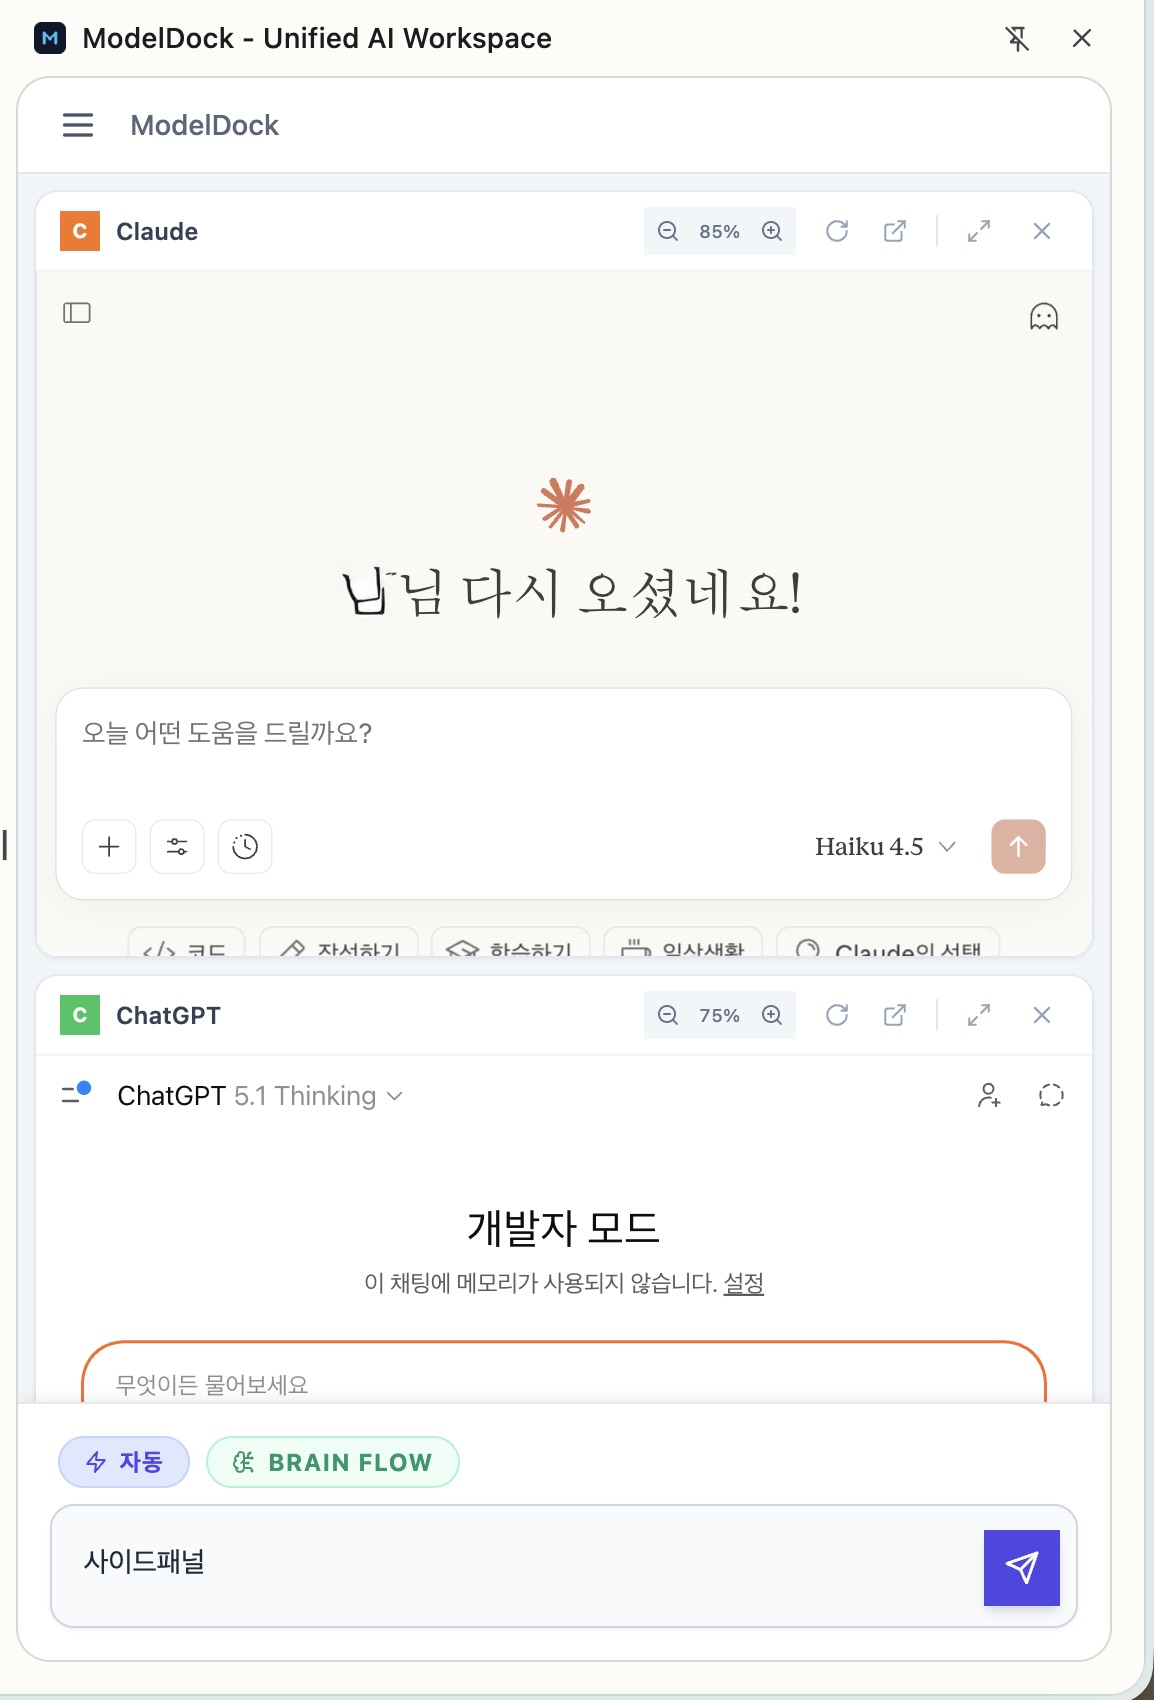
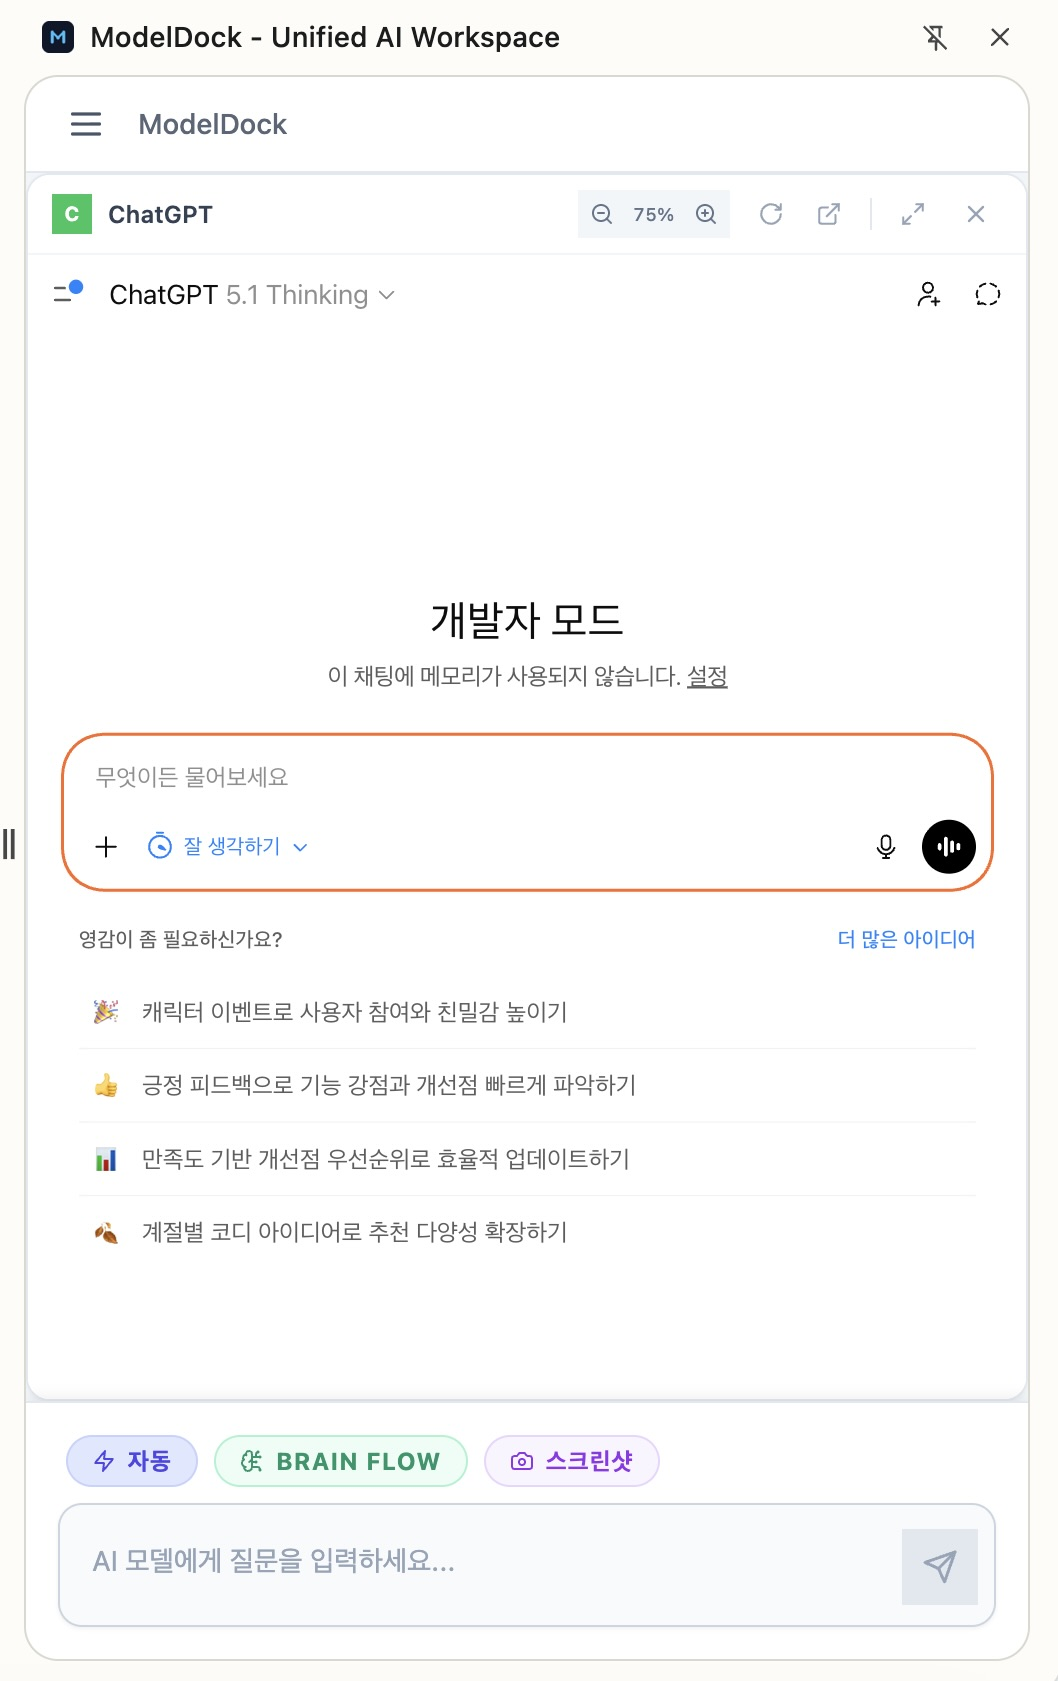
스크린샷 완성

diff --git a/public/content.js b/public/content.js
@@ -648,40 +648,88 @@ function resolveManifestFromCache(hostname) {
 
     console.log('[ModelDock] ✅ Found input for image:', foundInput);
 
-    // 3. Simulate Paste / Drop
+    // 3. Simulate Paste / Drop - 🔧 모델별 최적화 (중복 방지)
     try {
       foundInput.focus();
 
-      // Method A: ClipboardEvent with DataTransfer (Modern)
       const dataTransfer = new DataTransfer();
       dataTransfer.items.add(file);
 
+      // 호스트명 기반 모델 감지
+      const hostname = window.location.hostname;
+
+      // === GPT (ChatGPT): Paste만 사용 ===
+      if (hostname.includes('openai.com') || hostname.includes('chatgpt.com')) {
+        const pasteEvent = new ClipboardEvent('paste', {
+          bubbles: true,
+          cancelable: true,
+          clipboardData: dataTransfer
+        });
+        foundInput.dispatchEvent(pasteEvent);
+        console.log('[ModelDock] 📸 ChatGPT: Paste-only method used');
+        return { status: 'success', method: 'paste' };
+      }
+
+      // === Kimi: Paste만 사용 ===
+      if (hostname.includes('kimi') || hostname.includes('moonshot')) {
+        const pasteEvent = new ClipboardEvent('paste', {
+          bubbles: true,
+          cancelable: true,
+          clipboardData: dataTransfer
+        });
+        foundInput.dispatchEvent(pasteEvent);
+        console.log('[ModelDock] 📸 Kimi: Paste-only method used');
+        return { status: 'success', method: 'paste' };
+      }
+
+      // === LMArena: Paste 우선, File Input 폴백 ===
+      if (hostname.includes('lmarena.ai')) {
+        // 1. Paste 시도
+        const pasteEvent = new ClipboardEvent('paste', {
+          bubbles: true,
+          cancelable: true,
+          clipboardData: dataTransfer
+        });
+        foundInput.dispatchEvent(pasteEvent);
+        console.log('[ModelDock] 📸 LMArena: Paste method attempted');
+
+        // 2. File Input도 시도 (보험용)
+        const fileInput = document.querySelector('input[type="file"]');
+        if (fileInput) {
+          try {
+            const dt = new DataTransfer();
+            dt.items.add(file);
+            fileInput.files = dt.files;
+            fileInput.dispatchEvent(new Event('change', { bubbles: true }));
+            console.log('[ModelDock] 📸 LMArena: File input also triggered');
+          } catch (e) {
+            console.warn('[ModelDock] LMArena file input failed:', e);
+          }
+        }
+        return { status: 'success', method: 'paste+file' };
+      }
+
+      // === DeepSeek / Qwen: Paste만 사용 ===
+      if (hostname.includes('deepseek') || hostname.includes('qwen')) {
+        const pasteEvent = new ClipboardEvent('paste', {
+          bubbles: true,
+          cancelable: true,
+          clipboardData: dataTransfer
+        });
+        foundInput.dispatchEvent(pasteEvent);
+        console.log('[ModelDock] 📸 DeepSeek/Qwen: Paste-only method used');
+        return { status: 'success', method: 'paste' };
+      }
+
+      // === 기타 모델: Paste만 사용 ===
       const pasteEvent = new ClipboardEvent('paste', {
         bubbles: true,
         cancelable: true,
         clipboardData: dataTransfer
       });
       foundInput.dispatchEvent(pasteEvent);
-
-      // Method B: Drop Event (Fallback for some editors like ProseMirror)
-      const dragEvent = new DragEvent('drop', {
-        bubbles: true,
-        cancelable: true,
-        dataTransfer: dataTransfer
-      });
-      foundInput.dispatchEvent(dragEvent);
-
-      // Method C: Input Event with insertFromPaste (Legacy)
-      const inputEvent = new InputEvent('input', {
-        inputType: 'insertFromPaste',
-        bubbles: true,
-        cancelable: true,
-        dataTransfer: dataTransfer
-      });
-      foundInput.dispatchEvent(inputEvent);
-
-      console.log('[ModelDock] 📸 Image paste simulated');
-      return { status: 'success' };
+      console.log('[ModelDock] 📸 Default: Paste-only method used');
+      return { status: 'success', method: 'paste' };
 
     } catch (error) {
       console.error('[ModelDock] Image injection failed:', error);

diff --git a/src/SidePanelApp.tsx b/src/SidePanelApp.tsx
@@ -388,8 +388,6 @@ export const SidePanelApp: React.FC = () => {
   const mainBrainModel = activeModels.find(m => m.instanceId === mainBrainInstanceId);
 
   // === Screenshot Handler ===
-  // === Screenshot Handler ===
-  // === Screenshot Handler ===
   const handleScreenshotCapture = useCallback(async (dataUrl: string) => {
     // 1. BYOK 모델(API 방식) 처리
     const byokModels = activeModels.filter(m => m.modelId.startsWith('byok-'));
@@ -407,8 +405,17 @@ export const SidePanelApp: React.FC = () => {
       await Promise.all(sendPromises);
     }
 
-    // 2. 일반 웹 모델(WebView) 처리 - 자동 붙여넣기 시도
-    const webModels = activeModels.filter(m => !m.modelId.startsWith('byok-'));
+    // 2. Perplexity 특별 처리 (API 방식이지만 이미지 미지원)
+    const perplexityModels = activeModels.filter(m => m.modelId === 'perplexity');
+    if (perplexityModels.length > 0) {
+      console.log('[SidePanelApp] ⚠ Perplexity does not support image input via API');
+      // Perplexity API는 현재 이미지 입력을 지원하지 않음
+    }
+
+    // 3. 일반 웹 모델(WebView/iframe) 처리 - 자동 붙여넣기 시도
+    const webModels = activeModels.filter(m =>
+      !m.modelId.startsWith('byok-') && m.modelId !== 'perplexity'
+    );
 
     // 클립보드 복사 (백업 및 수동 붙여넣기용)
     try {
@@ -426,6 +433,7 @@ export const SidePanelApp: React.FC = () => {
       const visibleIframes = Array.from(document.querySelectorAll<HTMLIFrameElement>('iframe[data-md-frame="true"]'));
 
       let injectionCount = 0;
+      const failedModels: string[] = [];
 
       for (const model of webModels) {
         // Find iframe for this model instance
@@ -448,20 +456,27 @@ export const SidePanelApp: React.FC = () => {
             injectionCount++;
           } catch (e) {
             console.warn(`Failed to inject image to ${model.modelId}`, e);
+            failedModels.push(model.modelId);
           }
+        } else {
+          failedModels.push(model.modelId);
         }
       }
 
       // UX Feedback
       if (injectionCount > 0) {
         console.log(`[SidePanelApp] 📸 Image injected into ${injectionCount} web models`);
-        // Toast-like notification logic can be handled by `lastActionStatus` if we hook it up, 
-        // using 'copied' status as a proxy for visual feedback without blocking alert.
-        // For now, removing the blocking alert based on user preference for automation.
-      } else {
-        alert('자동 입력을 위한 웹 뷰를 찾을 수 없습니다. (Ctrl+V로 붙여넣으세요)');
+      }
+
+      if (failedModels.length > 0 && injectionCount === 0) {
+        // 모든 웹 모델에 실패한 경우에만 알림
+        console.warn(`[SidePanelApp] Failed models: ${failedModels.join(', ')}`);
       }
     }
+
+    // 전체 결과 로그
+    const totalProcessed = byokModels.length + webModels.length;
+    console.log(`[SidePanelApp] 📸 Screenshot processed. Total: ${totalProcessed} models`);
   }, [activeModels, handleSendBYOKMessage]);
 
   return (

diff --git a/README.md b/README.md
@@ -150,6 +150,7 @@ Goal → Main Brain → [SLAVE:grok-1] "시장 조사"
 - 독립적인 상태 관리 (`sp_` prefix storage)
 - 반응형 UI (300px ~ 600px 자동 조절)
 - 메인 앱과 완전히 분리된 히스토리
+- **📸 스크린샷 캡처**: 전체/영역 선택 후 모든 모델에 동시 전송
 
 ### 4⃣ BYOK (Bring Your Own Key) 시스템
 
@@ -360,6 +361,37 @@ else {
 - 컴팩트 레이아웃
 - 전체 기능 지원
 - 독립적 상태 관리
+
+#### 📸 스크린샷 캡처 기능
+
+<div align="center">
+  <img src="screen/스크린샷.jpeg" alt="스크린샷 캡처" width="400"/>
+</div>
+
+**원클릭 멀티 모델 이미지 입력**
+
+사이드 패널에서 현재 보고 있는 웹페이지를 즉시 캡처하여 모든 활성 AI 모델에 동시 전송할 수 있습니다.
+
+| 캡처 모드 | 설명 |
+|-----------|------|
+| **전체 화면** | 현재 탭의 전체 화면을 즉시 캡처 |
+| **영역 선택** | 웹페이지 위에 오버레이가 표시되며, 드래그로 원하는 영역만 선택 |
+
+**모델별 최적화**
+- **기본 모델들**: 자동 이미지 붙여넣기
+- **BYOK 모델 (API)**: Vision API를 통한 이미지 분석
+- **Perplexity**: 클립보드 복사 (수동 Ctrl+V 필요)
+
+```typescript
+// 스크린샷 캡처 플로우
+📸 버튼 클릭 → [전체/영역] 선택
+      ↓
+전체: chrome.tabs.captureVisibleTab()
+영역: 웹페이지 오버레이 + 드래그 선택
+      ↓
+모든 활성 모델에 이미지 자동 전송
+```
+
 
 ### 설정 화면
 ![설정](screen/Setting.jpeg)
